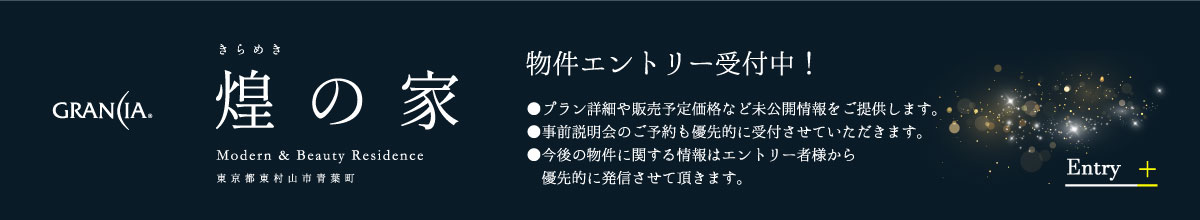
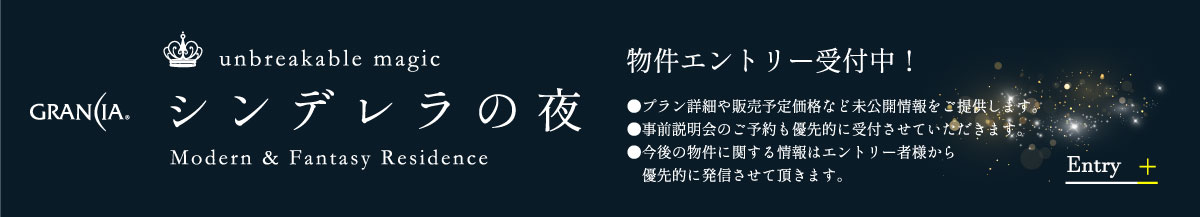
0725_修正

diff --git a/index.html b/index.html
@@ -13,7 +13,7 @@
     <meta name="description" content="家族の憩いの時間は、家族みんなが集まる「夜」に始まります。
 趣味を楽しめるリラックスベンチをリビングの一角に設け、
 居心地の良さやと家事の負担軽減を重視。
-煌の家は、そんな夜の居心地に拘り設計しました。">
+「シンデレラの夜」は、そんな夜の居心地に拘り設計しました。">
     <link rel="canonical" href="https://www.jyu-g.co.jp/special/aobacho2_1/">
     <meta name="format-detection" content="telephone=no" />
     <!-- SNS関係 -->
@@ -25,7 +25,7 @@
     <meta property="og:description"  content="家族の憩いの時間は、家族みんなが集まる「夜」に始まります。
 趣味を楽しめるリラックスベンチをリビングの一角に設け、
 居心地の良さやと家事の負担軽減を重視。
-煌の家は、そんな夜の居心地に拘り設計しました。"><!-- 通常のdescriptionと同じ内容 -->
+「シンデレラの夜」は、そんな夜の居心地に拘り設計しました。"><!-- 通常のdescriptionと同じ内容 -->
     <meta property="og:image"        content="images/sns/share.jpg">                            <!-- SNS表示用のサムネイル 1200px × 630px -->
     <!-- //SNS関係 -->
     <!--// デプロイ前に確認・サンプル -->
@@ -337,16 +337,17 @@
     </div>
     <div class="c-container" style="background: #a7aaad;">
         <!-- #04 / 特別仕様 -->
-        <div id="04" class="c-contents pdt5 pdt10s pdb5 pdb10s mgb10 mgb10s">
+        <div id="04" class="c-contents pdt5 pdt10s pdb5 pdb10s mgb5 mgb10s">
             <div class="c-contents-inner w1100">
-                <div class="c-borderBtm pdb5 pdb10s mgb5 mgb5s"><!-- 煌の家_タイトル -->
+                <div class="c-borderBtm pdb5 pdb10s mgb5 mgb5s"><!-- シンデレラの夜_タイトル -->
                     <ul class="c-flex -col1_2 -jc-sb -h-cen">
                         <li class="flexItem">
-                            <h2 class="s-LL -white -ls-15 mgb3 mgb3s a-fadeRight -sc-auto"><span class="s-LL -white -hurikana">煌</span>の家</h2>
-                            <p class="s-S -left -white -ls-2 -f-En03 pdl1 pdl1s mgb2s a-fadeRight -sc-auto">Special Specification</p>
+                            <div class="imgBox w50 -left"><img src="images/SVG/site-logo02.svg" alt="unbreakable magic"></div>
+                            <h2 class="s-LL -white -ls-15 mgb3 mgb3s a-fadeRight -sc-auto">シンデレラの夜</h2>
+                            <p class="s-S -left -white -ls-2 -f-En03 pdl1 pdl1s mgb2s a-fadeRight -sc-auto">Modern & Fantasy Residence</p>
                         </li>
                         <li class="flexItem">
-                            <p class="s-S -right -white -ls-2 -lh-2 pdl2 pdl2s a-fadeLeft -sc4">「煌の家」だけの特別仕様。<br>心までをも満たす充実の暮らし―。</p>
+                            <p class="s-S -right -white -ls-2 -lh-2 pdl2 pdl2s a-fadeLeft -sc4">「シンデレラの夜」だけの特別仕様。<br>心までをも満たす充実の暮らし―。</p>
                         </li>
                     </ul>
                 </div>
@@ -413,11 +414,12 @@
                 <div class="c-contents mgb5 mgb5s"><!-- ギャラリー_タイトル -->
                     <ul class="c-flex -col1_2 -jc-sb -h-cen">
                         <li class="flexItem">
-                            <h2 class="s-LL -ls-15 mgb3 mgb3s a-fadeRight -sc-auto"><span class="s-LL -hurikana -bl">煌</span>の家</h2>
+                            <div class="imgBox w50 -left"><img src="images/SVG/site-logo02_b.svg" alt="unbreakable magic"></div>
+                            <h2 class="s-LL -ls-15 mgb3 mgb3s a-fadeRight -sc-auto">シンデレラの夜</h2>
                             <p class="s-S -left -ls-2 -f-En03 pdl1 pdl1s mgb2s a-fadeRight -sc-auto">Gallery</p>
                         </li>
                         <li class="flexItem">
-                            <!-- <p class="s-S -right -white -ls-2 -lh-2 pdl2 pdl2s a-fadeLeft -sc4">「煌の家」だけの特別仕様。<br>心までをも満たす充実の暮らし―。</p> -->
+                            <!-- <p class="s-S -right -white -ls-2 -lh-2 pdl2 pdl2s a-fadeLeft -sc4">「シンデレラの夜」だけの特別仕様。<br>心までをも満たす充実の暮らし―。</p> -->
                         </li>
                     </ul>
                 </div>
@@ -501,7 +503,7 @@
                     現地周辺の落ち着いた環境は、車の往来も少なく、子育てに適した環境が広がります。<br>
                     一方、現地から半径2キロ圏内にまで目を広げると、多くの生活利便施設に囲まれている事がわかります。<br>
                     静寂と利便が溶け合うこの場所は、まさに永住に相応しい地。<br>
-                    特に子育て世代におススメしたい分譲地「煌の家」。<br>
+                    特に子育て世代におススメしたい分譲地「シンデレラの夜」。<br>
                     新たな暮らしをここからスタートさせてはいかがでしょうか？
                 </p>
                 <!-- 4路線4駅利用可能 -->
@@ -678,7 +680,7 @@
         </div><!-- //お問い合わせバナー -->
 
         <div id="07" class="c-contents -imgBg mgb10 mgb10s"><!-- カフェ -->
-            <div class="imgBox pdr2 pdl2">
+            <div class="imgBox">
                 <img class="sp"    src="images/bg/cafe_bg_s.jpg" alt="">
                 <img class="tb-pc" src="images/bg/cafe_bg.jpg"   alt="">
             </div>

diff --git a/scss/components/_common.scss b/scss/components/_common.scss
@@ -126,11 +126,11 @@
 }
 
 .c-borderBox{
-    padding: 3%;
+    // padding: 3%;
     @include min(768){
         // width: 95%;
         width: 100%;
-        padding: 1% 1% 2%;
+        // padding: 1% 1% 2%;
         margin-right: 0;
         margin-left: auto;
     }

diff --git a/css/style.css b/css/style.css
@@ -2947,13 +2947,9 @@ button.swiper-pagination-bullet {
   }
 }
 
-.c-borderBox {
-  padding: 3%;
-}
 @media (width >= 768px) {
   .c-borderBox {
     width: 100%;
-    padding: 1% 1% 2%;
     margin-right: 0;
     margin-left: auto;
   }
